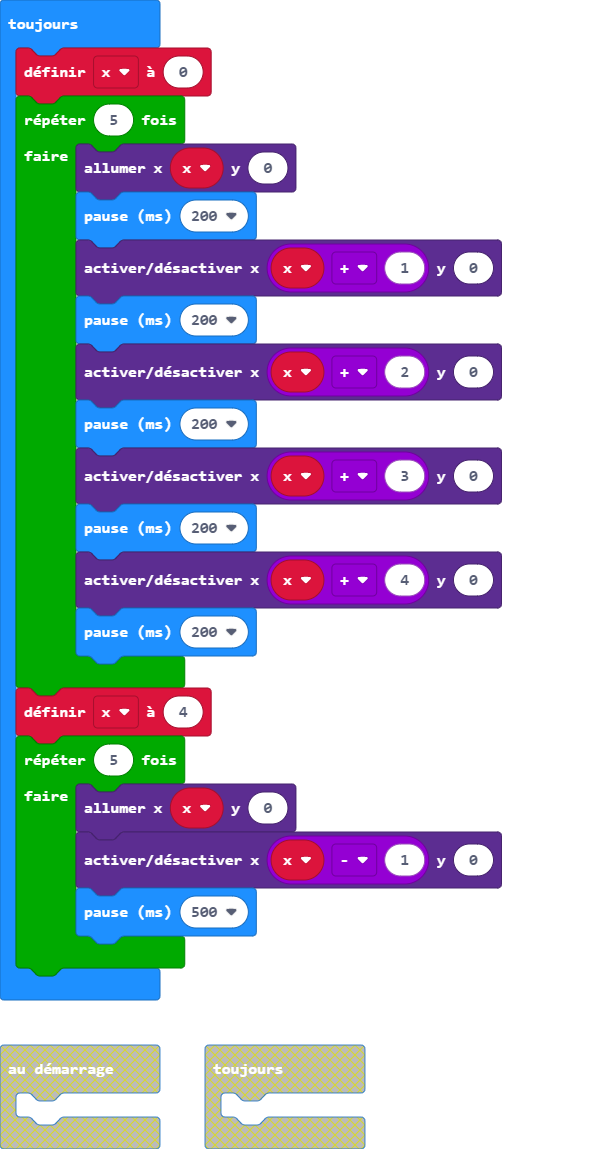
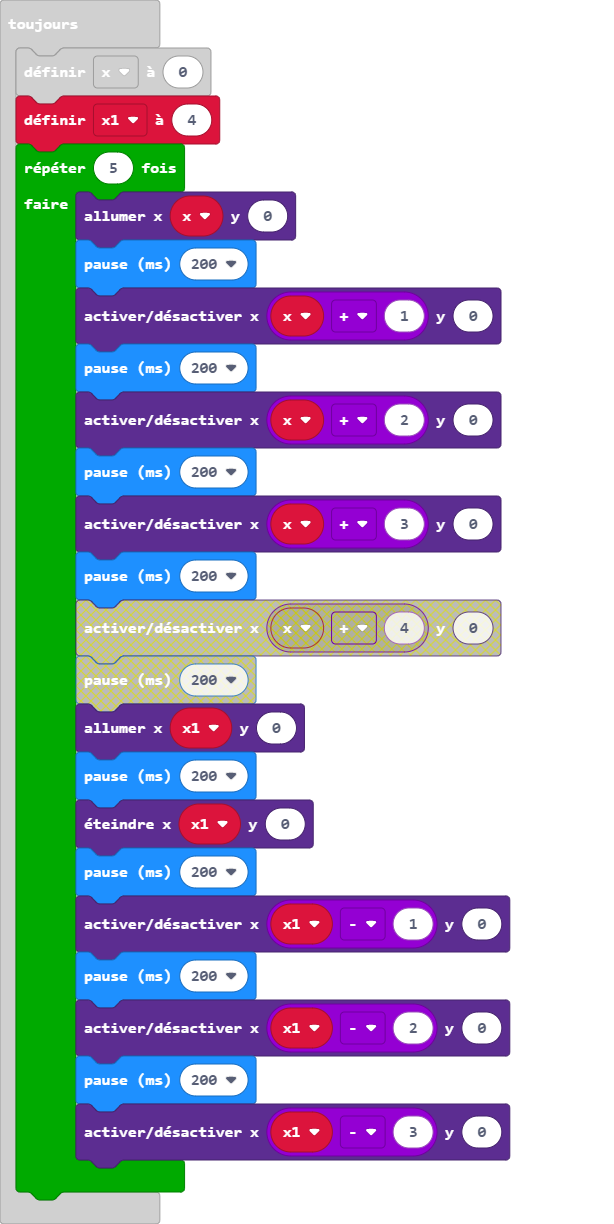
Mise à jour main.blocks, main.ts

diff --git a/main.ts b/main.ts
@@ -1,6 +1,8 @@
 let x = 0
+let x1 = 0
 basic.forever(function () {
     x = 0
+    x1 = 4
     for (let index = 0; index < 5; index++) {
         led.plot(x, 0)
         basic.pause(200)
@@ -10,13 +12,14 @@ basic.forever(function () {
         basic.pause(200)
         led.toggle(x + 3, 0)
         basic.pause(200)
-        led.toggle(x + 4, 0)
+        led.plot(x1, 0)
         basic.pause(200)
-    }
-    x = 4
-    for (let index = 0; index < 5; index++) {
-        led.plot(x, 0)
-        led.toggle(x - 1, 0)
-        basic.pause(500)
+        led.unplot(x1, 0)
+        basic.pause(200)
+        led.toggle(x1 - 1, 0)
+        basic.pause(200)
+        led.toggle(x1 - 2, 0)
+        basic.pause(200)
+        led.toggle(x1 - 3, 0)
     }
 })
